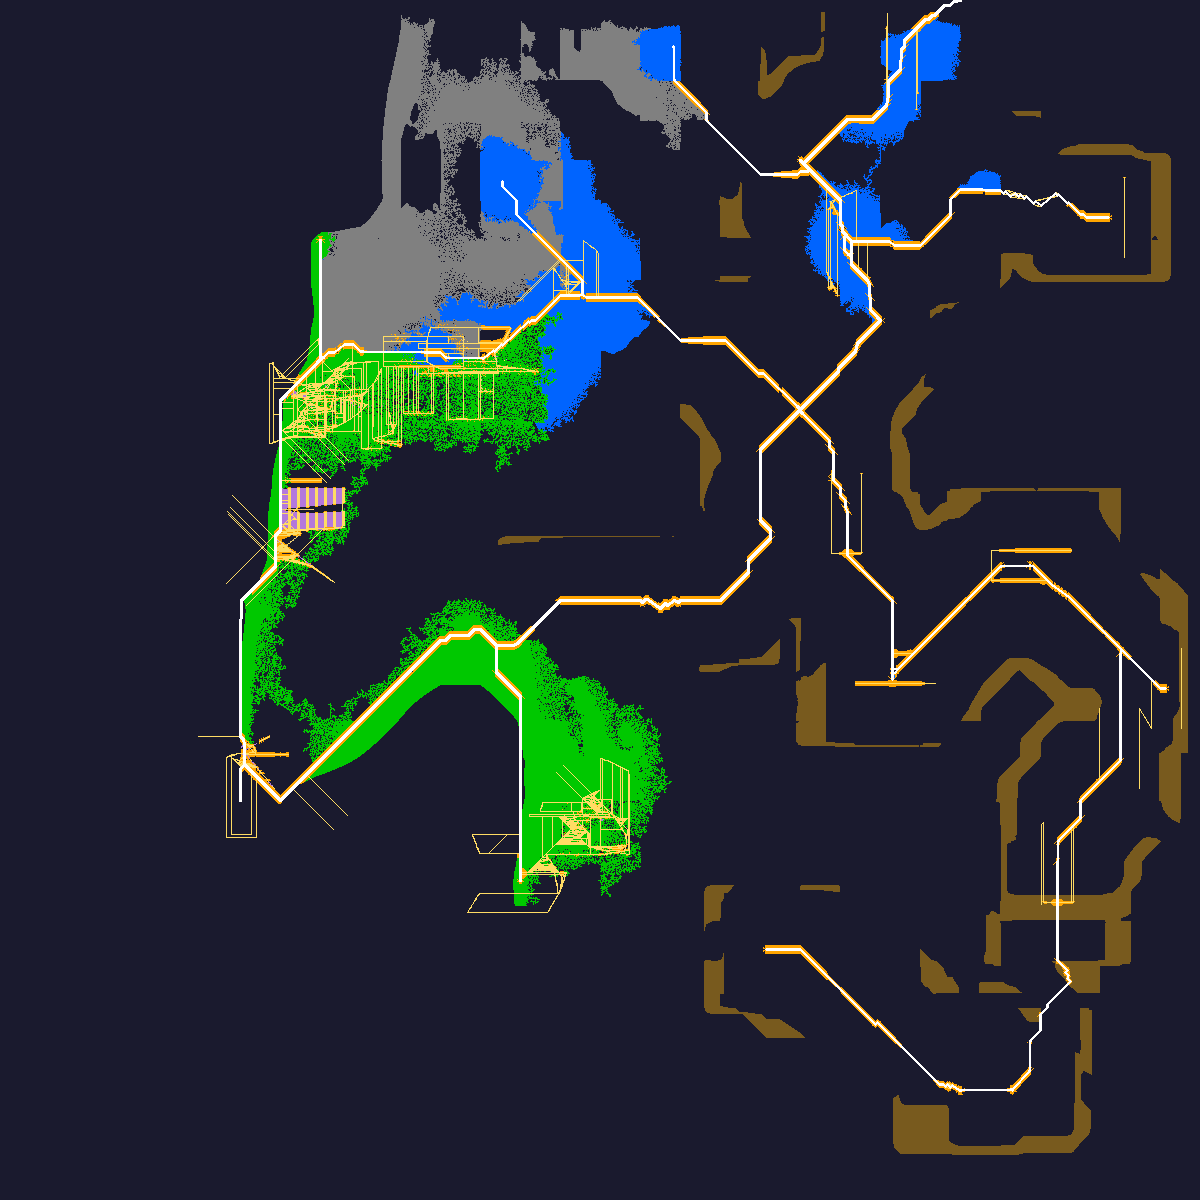
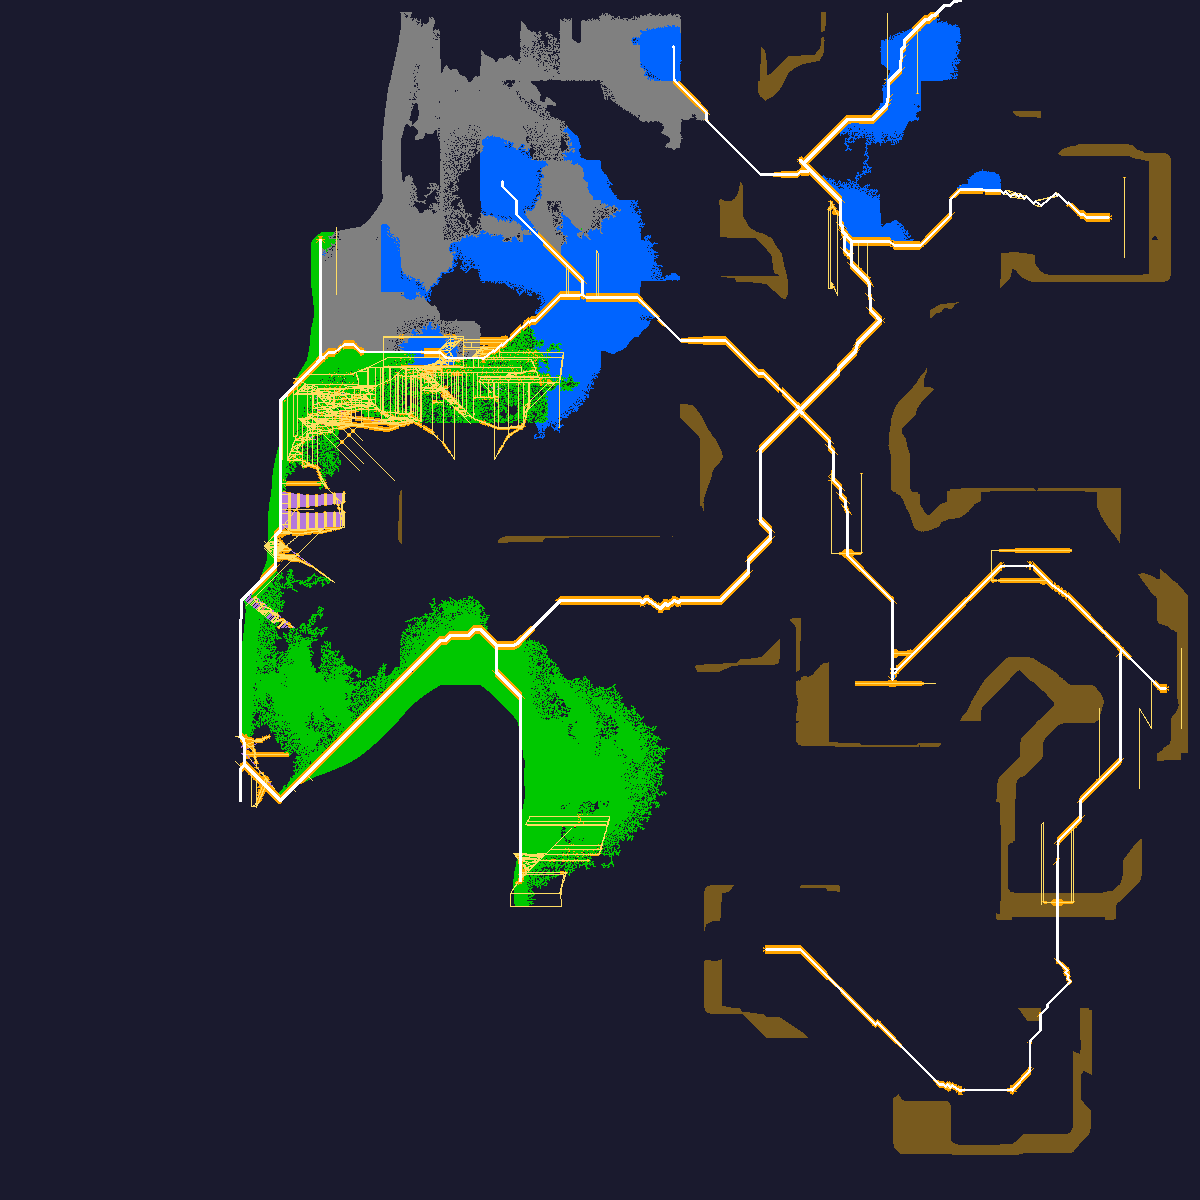
Fix roads in water: growRoads now checks waterMask
Cross streets, ribbon gaps, and path closing all skip water cells.
Bridges only placed if entire bridge path is on land.

diff --git a/src/city/pipeline/growRoads.js b/src/city/pipeline/growRoads.js
@@ -11,6 +11,7 @@
  *
  * @param {object} opts
  * @param {Grid2D} opts.roadGrid - road grid (read + write)
+ * @param {Grid2D|null} opts.waterMask - water mask (read only, skip water cells)
  * @param {Array<{gx,gz}>} opts.ribbonGaps - gap cells from ribbon allocation
  * @param {Array<{gx,gz,dx,dz}>} opts.ribbonEndpoints - cross street start points
  * @param {number} opts.w - grid width
@@ -19,17 +20,23 @@
  * @param {number} opts.pathClosingDistance - max gap to bridge between endpoints
  */
 export function growRoads({
-  roadGrid, ribbonGaps, ribbonEndpoints, w, h,
+  roadGrid, waterMask, ribbonGaps, ribbonEndpoints, w, h,
   maxCrossStreetLength, pathClosingDistance,
 }) {
-  // Step 1: Mark ribbon gaps as road cells
+  const isWater = (gx, gz) =>
+    waterMask && gx >= 0 && gx < w && gz >= 0 && gz < h && waterMask.get(gx, gz) > 0;
+
+  const canPlace = (gx, gz) =>
+    gx >= 0 && gx < w && gz >= 0 && gz < h && !isWater(gx, gz);
+
+  // Step 1: Mark ribbon gaps as road cells (skip water)
   for (const g of ribbonGaps) {
-    if (g.gx >= 0 && g.gx < w && g.gz >= 0 && g.gz < h) {
+    if (canPlace(g.gx, g.gz)) {
       roadGrid.set(g.gx, g.gz, 1);
     }
   }
 
-  // Step 2: Extend cross streets from ribbon endpoints
+  // Step 2: Extend cross streets from ribbon endpoints (stop at water)
   for (const ep of ribbonEndpoints) {
     let gx = ep.gx;
     let gz = ep.gz;
@@ -38,8 +45,7 @@ export function growRoads({
 
     if (dx === 0 && dz === 0) continue;
 
-    // Place road at the starting endpoint cell itself if not already a road
-    if (gx >= 0 && gx < w && gz >= 0 && gz < h && roadGrid.get(gx, gz) === 0) {
+    if (canPlace(gx, gz) && roadGrid.get(gx, gz) === 0) {
       roadGrid.set(gx, gz, 1);
     }
 
@@ -47,38 +53,32 @@ export function growRoads({
       gx += dx;
       gz += dz;
 
-      if (gx < 0 || gx >= w || gz < 0 || gz >= h) break;
-
-      // Hit an existing road — form junction and stop
+      if (!canPlace(gx, gz)) break;
       if (roadGrid.get(gx, gz) > 0) break;
 
       // Check if close to an existing road — bridge the gap
       let nearRoad = false;
       for (let d = 1; d <= Math.min(3, pathClosingDistance); d++) {
-        const nx = gx + dx * d;
-        const nz = gz + dz * d;
+        const nx = gx + dx * d, nz = gz + dz * d;
         if (nx >= 0 && nx < w && nz >= 0 && nz < h && roadGrid.get(nx, nz) > 0) {
-          // Bridge to it
+          let bridgeOk = true;
           for (let b = 0; b < d; b++) {
-            const bx = gx + dx * b;
-            const bz = gz + dz * b;
-            if (bx >= 0 && bx < w && bz >= 0 && bz < h) {
-              roadGrid.set(bx, bz, 1);
-            }
+            if (!canPlace(gx + dx * b, gz + dz * b)) { bridgeOk = false; break; }
           }
-          nearRoad = true;
+          if (bridgeOk) {
+            for (let b = 0; b < d; b++) roadGrid.set(gx + dx * b, gz + dz * b, 1);
+            nearRoad = true;
+          }
           break;
         }
       }
       if (nearRoad) break;
 
-      // Place road cell
       roadGrid.set(gx, gz, 1);
     }
   }
 
-  // Step 3: Path closing — find pairs of dead-end road cells and connect them
-  // Collect road endpoints (cells with exactly 1 road neighbour)
+  // Step 3: Path closing — connect nearby dead ends (skip water)
   const deadEnds = [];
   for (let gz = 1; gz < h - 1; gz++) {
     for (let gx = 1; gx < w - 1; gx++) {
@@ -87,13 +87,10 @@ export function growRoads({
       for (const [dx, dz] of [[1,0],[-1,0],[0,1],[0,-1]]) {
         if (roadGrid.get(gx + dx, gz + dz) > 0) neighbours++;
       }
-      if (neighbours === 1) {
-        deadEnds.push({ gx, gz });
-      }
+      if (neighbours === 1) deadEnds.push({ gx, gz });
     }
   }
 
-  // Try to connect nearby dead ends
   const maxDistSq = pathClosingDistance * pathClosingDistance;
   const connected = new Set();
 
@@ -105,26 +102,29 @@ export function growRoads({
       if (connected.has(j)) continue;
       const b = deadEnds[j];
 
-      const dx = b.gx - a.gx;
-      const dz = b.gz - a.gz;
+      const dx = b.gx - a.gx, dz = b.gz - a.gz;
       const distSq = dx * dx + dz * dz;
+      if (distSq > maxDistSq || distSq < 4) continue;
 
-      if (distSq > maxDistSq || distSq < 4) continue; // too far or too close
-
-      // Draw a straight line between them
+      // Check line doesn't cross water
       const steps = Math.max(Math.abs(dx), Math.abs(dz));
+      let blocked = false;
       for (let s = 0; s <= steps; s++) {
         const t = s / steps;
         const rx = Math.round(a.gx + dx * t);
         const rz = Math.round(a.gz + dz * t);
-        if (rx >= 0 && rx < w && rz >= 0 && rz < h) {
-          roadGrid.set(rx, rz, 1);
-        }
+        if (!canPlace(rx, rz)) { blocked = true; break; }
+      }
+      if (blocked) continue;
+
+      for (let s = 0; s <= steps; s++) {
+        const t = s / steps;
+        roadGrid.set(Math.round(a.gx + dx * t), Math.round(a.gz + dz * t), 1);
       }
 
       connected.add(i);
       connected.add(j);
-      break; // each dead end connects to at most one other
+      break;
     }
   }
 }

diff --git a/src/city/pipeline/growthTick.js b/src/city/pipeline/growthTick.js
@@ -190,8 +190,10 @@ export function runGrowthTick(map, archetype, state) {
   // Phase 4 ROADS: grow streets from ribbon results
   if (roadGrid && (allRibbonGaps.length > 0 || allRibbonEndpoints.length > 0)) {
     const roadConfig = growth.roadGrowth || {};
+    const waterMask = map.hasLayer('waterMask') ? map.getLayer('waterMask') : null;
     growRoads({
       roadGrid,
+      waterMask,
       ribbonGaps: allRibbonGaps,
       ribbonEndpoints: allRibbonEndpoints,
       w, h,
